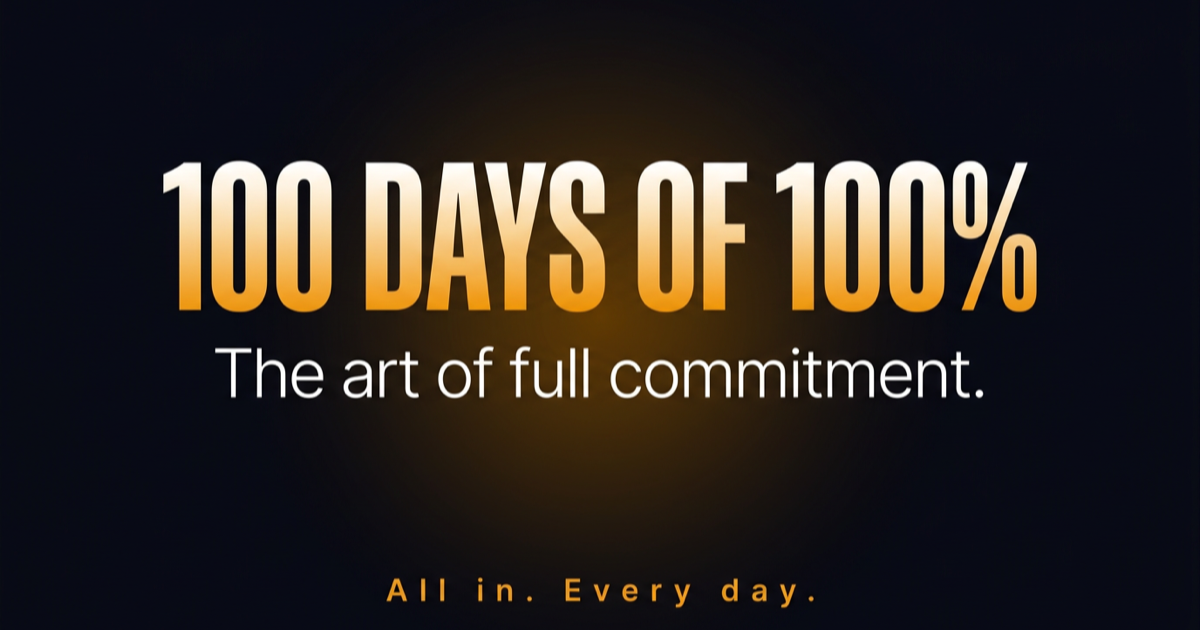
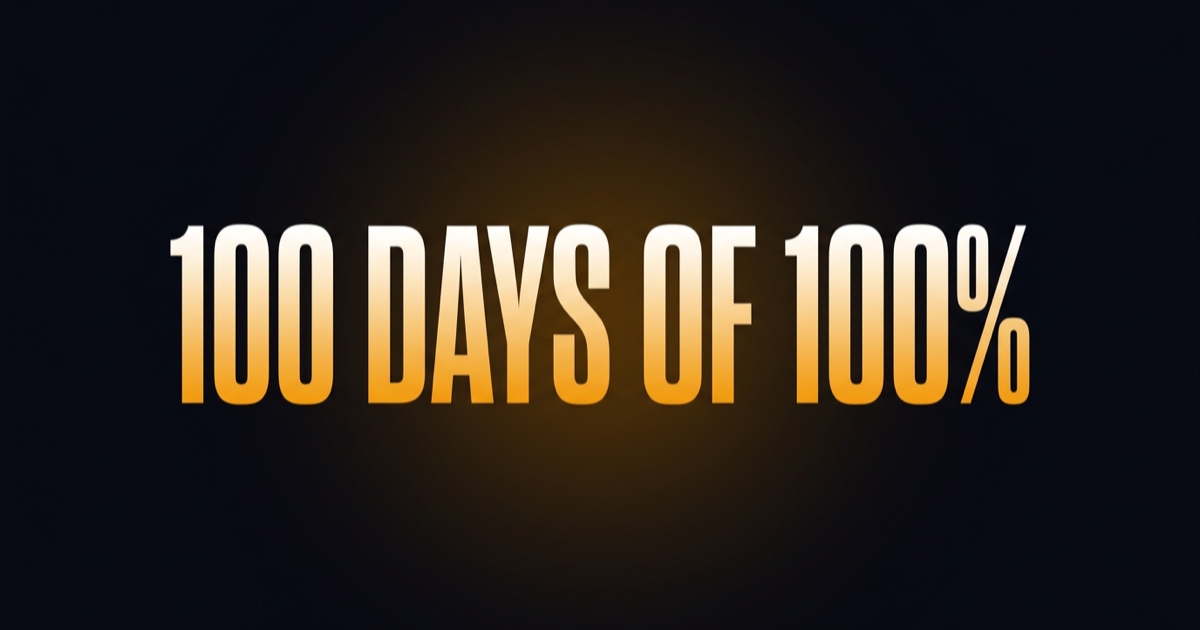
update: OG image clean — 100 DAYS OF 100% only, meta title to All in. Every day.
Made-with: Cursor

diff --git a/index.html b/index.html
@@ -10,14 +10,14 @@
 
     <!-- Open Graph -->
     <meta property="og:type" content="website" />
-    <meta property="og:title" content="100 Days of 100% — The art of full commitment." />
+    <meta property="og:title" content="All in. Every day." />
     <meta property="og:description" content="All in. Every day." />
     <meta property="og:url" content="%VITE_SITE_URL%" />
     <meta property="og:image" content="%VITE_SITE_URL%/og-image.png" />
 
     <!-- Twitter Card -->
     <meta name="twitter:card" content="summary_large_image" />
-    <meta name="twitter:title" content="100 Days of 100% — The art of full commitment." />
+    <meta name="twitter:title" content="All in. Every day." />
     <meta name="twitter:description" content="All in. Every day." />
     <meta name="twitter:image" content="%VITE_SITE_URL%/og-image.png" />
   </head>
